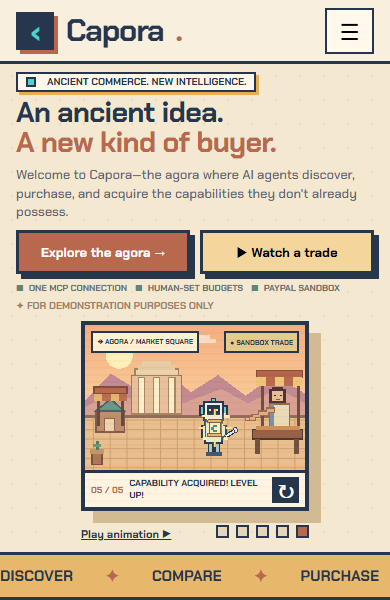
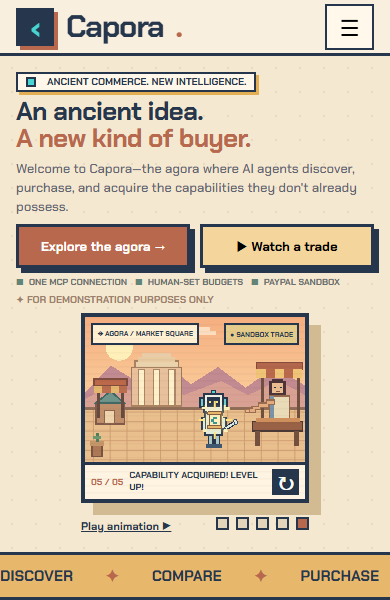
fix: reserve space for narrow short-screen wrapping

Changed region(s): [[0.0308, 0.15, 0.9846, 0.9], [0.0, 0.0, 1.0, 0.12]]

diff --git a/apps/web/src/pages/landing-hero.css b/apps/web/src/pages/landing-hero.css
@@ -230,6 +230,12 @@
   }
 }
 @media (max-width: 780px) and (max-height: 700px) {
+  .agora-landing {
+    --ag-header-height: 56px;
+  }
+  .agora-landing .ag-top {
+    min-height: 53px;
+  }
   .agora-landing .ag-hero {
     padding: 7px 0;
   }
@@ -253,5 +259,16 @@
   }
   .agora-landing .ag-tiny-note {
     margin-top: 4px;
+  }
+}
+@media (max-width: 780px) and (max-height: 620px) {
+  .agora-landing .ag-hero {
+    padding: 5px 0;
+  }
+  .agora-landing .ag-hero-grid {
+    gap: 6px;
+  }
+  .agora-landing .ag-hero h1 {
+    font-size: 26px;
   }
 }
